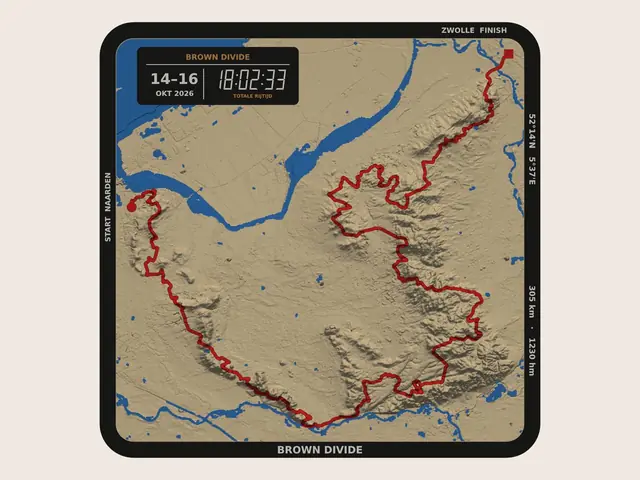
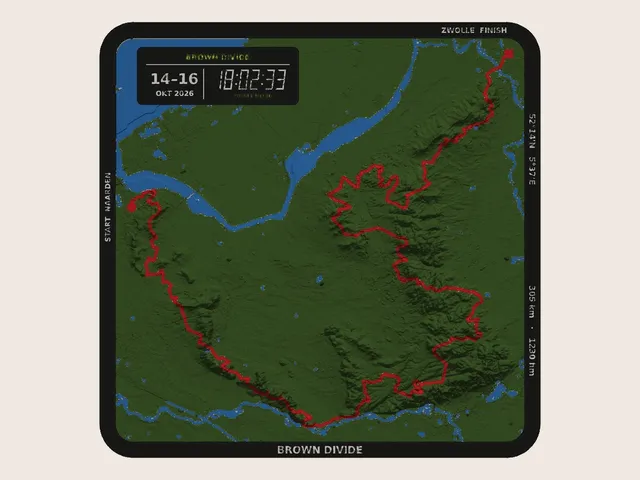
Brown Divide: groen landschap i.p.v. beige, groen ritkaartje-accent
Claude-Session: https://claude.ai/code/session_01Yb3YQ4NnfMNUKrkumKZ4zC

diff --git a/site.js b/site.js
@@ -11,7 +11,7 @@
     { id: 'dmr', size: '25 × 16 cm', price: 45, parts: 1, name: 'Dutch Mountain Ride', place: 'Zuid-Limburg', country: 'NL/BE/DE', sport: 'Gravel', km: '129', hm: '± 1.390', note: 'Met de winterroute als stippellijn', imgs: 2 },
     { id: 'gs', photo: true, size: '11 × 25 cm', price: 45, parts: 1, name: 'Geile Strecke', place: 'Nijmegen → Maastricht', country: 'NL/DE/BE', sport: 'Gravel', km: '217', hm: '± 990', note: 'De Limburg Divide, langs de grens', imgs: 5, card: 'tall', tint: '#5B8CF0' },
     { id: 'gd', size: '25 × 24 cm', price: 55, parts: 1, name: 'Green Divide', place: 'Naarden → Zwolle', country: 'NL', sport: 'Gravel', km: '302', hm: '± 1.540', note: 'Met eigen ritkaartje', imgs: 3 },
-    { id: 'bd', size: '25 × 24 cm', price: 55, parts: 1, name: 'Brown Divide', place: 'Naarden → Zwolle, wintervariant', country: 'NL', sport: 'Gravel', km: '305', hm: '± 1.230', note: 'Andere route door het Kroondomein', imgs: 3, tint: '#C9944A' },
+    { id: 'bd', size: '25 × 24 cm', price: 55, parts: 1, name: 'Brown Divide', place: 'Naarden → Zwolle, wintervariant', country: 'NL', sport: 'Gravel', km: '305', hm: '± 1.230', note: 'Andere route door het Kroondomein', imgs: 3 },
     { id: 'hun', size: '17 × 25 cm', price: 45, parts: 1, name: 'Hunebed Highway', place: 'Start & finish Drouwen', country: 'NL', sport: 'Gravel', km: '175', hm: '± 340', note: 'Rondje door Drenthe', imgs: 2, card: 'tall' },
     { id: 'tb', size: '47 × 11 cm', price: 65, parts: 2, name: 'TransBelgian', place: 'Oostende → Eupen', country: 'BE', sport: 'Gravel', km: '515', hm: '± 3.300', note: 'Dwars door België, de Ardennen in', imgs: 2 },
     { id: 'dd', size: '25 × 21 cm', price: 55, parts: 1, name: 'Dutch Divide', place: 'Retranchement → Nieuwe Statenzijl', country: 'NL', sport: 'Gravel', km: '1.009', hm: '± 1.500', note: 'Heel Nederland, van zuidwest naar noordoost', imgs: 2 }

diff --git a/index.html b/index.html
@@ -217,6 +217,6 @@ h2.big{font-family:'Archivo',sans-serif;font-weight:800;font-size:clamp(36px,4.4
 </div>
 </footer>
 
-<script src="site.js?v=20261020112133"></script>
+<script src="site.js?v=20261020112851"></script>
 </body>
 </html>
